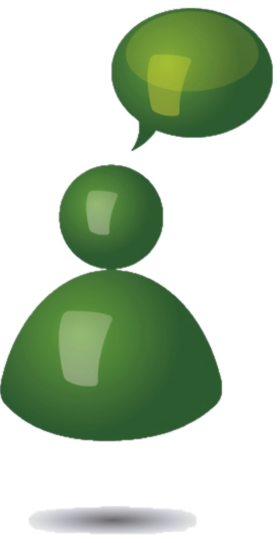
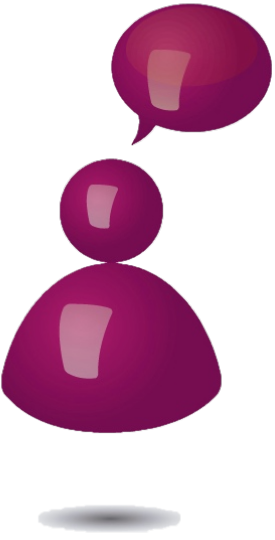
Changed the colors of the silhouettes - Made the colors of the silhouettes purple and orange to avoid conflicting with object colors - Change the color of the "Matcher"/"Director" text to reflect the silhouette colors
To do
- Look into giving the object-space a background color
- Create a better solution for positioning objects
- General clearing and commenting of the MainPage.html

diff --git a/FruitGame/MainPage.html b/FruitGame/MainPage.html
@@ -1,9 +1,9 @@
 {{ block title }}
     {{ if player.role == Constants.director_role }}
-    <p style="line-height:1; margin:0px; margin-left:10px"> Welcome! You are the<span style="line-height:1; margin:0px; margin-left:10px; color: green">{{ player.role }} </span>
+    <p style="line-height:1; margin:0px; margin-left:10px"> Welcome! You are the<span style="line-height:1; margin:0px; margin-left:10px; color: purple">{{ player.role }} </span>
          </p>
     {{ else }}
-    <p style="line-height:1; margin:0px; margin-left:10px"> Welcome! You are the<span style="line-height:1; margin:0px; margin-left:10px; color: blue">{{ player.role }} </span>
+    <p style="line-height:1; margin:0px; margin-left:10px"> Welcome! You are the<span style="line-height:1; margin:0px; margin-left:10px; color: orange">{{ player.role }} </span>
          </p>
     {{ endif }}
 
@@ -183,50 +183,50 @@
         {{ if player.group.silhouette_corner }}
             {{ if player.role == Constants.director_role }}
                 <div style="position: absolute; top: 400px;  left: 200px" >
-                    <img src="{{ static 'FruitGame/Director1.png' }}" width="60px" height="110px"/>
+                    <img src="{{ static 'FruitGame/Director1.png' }}" width="60px" height="auto"/>
                 </div>
                 {{ if player.group.matcherpos == 1}}
-                    <div style="position: absolute; top: 200px;  left: 225px" >
-                        <img src="{{ static 'FruitGame/Matcher1.png' }}" width="35px" height="55px"/>
+                    <div style="position: absolute; top: 170px;  left: 225px" >
+                        <img src="{{ static 'FruitGame/Matcher1.png' }}" width="40px" height="auto"/>
                     </div>
                 {{ endif }}
                 {{ if player.group.matcherpos == 2}}
-                    <div style="position: absolute; top: 270px;  left: 460px" >
-                        <img src="{{ static 'FruitGame/Matcher1.png' }}" width="40px" height="65px"/>
+                    <div style="position: absolute; top: 245px;  left: 460px" >
+                        <img src="{{ static 'FruitGame/Matcher1.png' }}" width="50px" height="auto"/>
                     </div>
                 {{ endif }}
                 {{ if player.group.matcherpos == 3}}
-                    <div style="position: absolute; top: 432px;  left: 270px" >
-                        <img src="{{ static 'FruitGame/Matcher1.png' }}" width="50px" height="80px"/>
+                    <div style="position: absolute; top: 400px;  left: 270px" >
+                        <img src="{{ static 'FruitGame/Matcher1.png' }}" width="60px" height="auto"/>
                     </div>
                 {{ endif }}
                 {{ if player.group.matcherpos == 4}}
-                    <div style="position: absolute; top: 270px;  left: -20px" >
-                        <img src="{{ static 'FruitGame/Matcher1.png' }}" width="40px" height="65px"/>
+                    <div style="position: absolute; top: 245px;  left: -20px" >
+                        <img src="{{ static 'FruitGame/Matcher1.png' }}" width="50px" height="auto"/>
                     </div>
                 {{ endif }}
             {{ else }}
-                <div style="position: absolute; top: 432px;  left: 270px" >
-                    <img src="{{ static 'FruitGame/Matcher1.png' }}" width="50px" height="80px"/>
+                <div style="position: absolute; top: 400px;  left: 270px" >
+                    <img src="{{ static 'FruitGame/Matcher1.png' }}" width="60px" height="auto"/>
                 </div>
                 {{ if player.group.matcherpos == 1}}
-                    <div style="position: absolute; top: 190px;  left: 225px" >
-                        <img src="{{ static 'FruitGame/Director1.png' }}" width="40px" height="70px"/>
+                    <div style="position: absolute; top: 170px;  left: 225px" >
+                        <img src="{{ static 'FruitGame/Director1.png' }}" width="40px" height="auto"/>
                     </div>
                 {{ endif }}
                 {{ if player.group.matcherpos == 2}}
-                    <div style="position: absolute; top: 260px;  left: -20px" >
-                        <img src="{{ static 'FruitGame/Director1.png' }}" width="50px" height="90px"/>
+                    <div style="position: absolute; top: 245px;  left: -20px" >
+                        <img src="{{ static 'FruitGame/Director1.png' }}" width="50px" height="auto"/>
                     </div>
                 {{ endif }}
                 {{ if player.group.matcherpos == 3}}
                     <div style="position: absolute; top: 400px;  left: 200px" >
-                        <img src="{{ static 'FruitGame/Director1.png' }}" width="60px" height="110px"/>
+                        <img src="{{ static 'FruitGame/Director1.png' }}" width="60px" height="auto"/>
                     </div>
                 {{ endif }}
                 {{ if player.group.matcherpos == 4}}
-                    <div style="position: absolute; top: 260px;  left: 460px" >
-                        <img src="{{ static 'FruitGame/Director1.png' }}" width="50px" height="90px"/>
+                    <div style="position: absolute; top: 245px;  left: 460px" >
+                        <img src="{{ static 'FruitGame/Director1.png' }}" width="50px" height="auto"/>
                     </div>
                 {{ endif }}
             {{ endif }}
